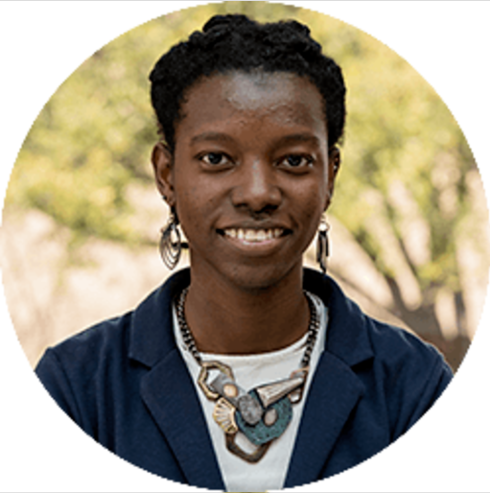
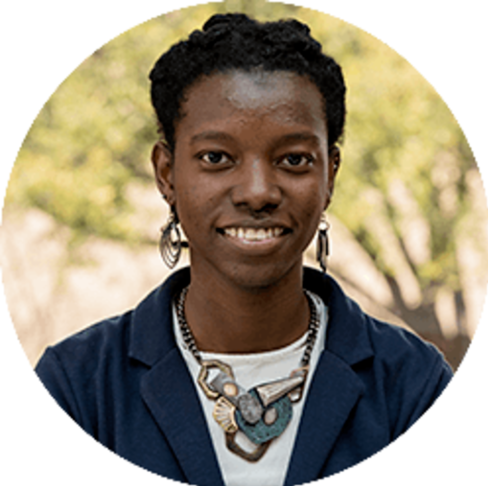
Created profile pictures and stylized a bit

diff --git a/about.html b/about.html
@@ -57,13 +57,15 @@
         <div class="proDiv">
           <img class="proPic" src="img/Team/Destiny-Tibbitts.PNG" alt="Destiny">
           <h2>Destiny Tibbits</h2>
+          <h3>Web Back-End</h3>
           <hr>
           <img src="img/GitHub-Mark-Light-64px.png" alt="github icon">
         </div>
 
         <div class="proDiv">
-          <img class=proPic src="img/Team/Destiny-Tibbitts.PNG" alt="Destiny">
-          <h2>Destiny Tibbits</h2>
+          <img class=proPic src="img/Team/Elijah-McKay.PNG" alt="Destiny">
+          <h2>Elijah McKay</h2>
+          <h3>Web Front End</h3>
           <hr>
           <img src="img/GitHub-Mark-Light-64px.png" alt="github icon">
         </div>
@@ -75,36 +77,44 @@
       <div class="row">
         <div class="proDiv">
           <img class="proPic" src="img/Team/Destiny-Tibbitts.PNG" alt="Destiny">
-          <h2>Destiny Tibbits</h2>
+          <h2>Joseph Wagner</h2>
+          <h3>Data Science</h3>
           <hr>
           <img src="img/GitHub-Mark-Light-64px.png" alt="github icon">
         </div>
 
         <div class="proDiv">
-          <img class=proPic src="img/Team/Destiny-Tibbitts.PNG" alt="Destiny">
-          <h2>Destiny Tibbits</h2>
-          <hr>
-          <img src="img/GitHub-Mark-Light-64px.png" alt="github icon">
-        </div>
+            <img class=proPic src="img/Team/Kevona-Webb.PNG" alt="Destiny">
+            <h2>Kevona Webb</h2>
+            <h3>Data Science</h3>
+            <hr>
+            <img src="img/GitHub-Mark-Light-64px.png" alt="github icon">
+          </div>
+
+
 
       </div>
       <!--End Row 2-->
 
-
       <div class="row">
+
+          <div class="proDiv">
+              <img class=proPic src="img/Team/Ned-Horsey.PNG" alt="Destiny">
+              <h2>Ned Horsey</h2>
+              <h3>Data Science</h3>
+              <hr>
+              <img src="img/GitHub-Mark-Light-64px.png" alt="github icon">
+            </div>
+    
+
         <div class="proDiv">
-          <img class="proPic" src="img/Team/Destiny-Tibbitts.PNG" alt="Destiny">
-          <h2>Destiny Tibbits</h2>
+          <img class="proPic" src="img/Team/Obaida-Albaroudi.PNG" alt="Destiny">
+          <h2>Obaida Albaroudi</h2>
+          <h3>Web Front-End</h3>
           <hr>
           <img src="img/GitHub-Mark-Light-64px.png" alt="github icon">
         </div>
 
-        <div class="proDiv">
-          <img class=proPic src="img/Team/Destiny-Tibbitts.PNG" alt="Destiny">
-          <h2>Destiny Tibbits</h2>
-          <hr>
-          <img src="img/GitHub-Mark-Light-64px.png" alt="github icon">
-        </div>
 
       </div>
       <!--End Row 3-->
@@ -112,15 +122,17 @@
 
       <div class="row">
         <div class="proDiv">
-          <img class="proPic" src="img/Team/Destiny-Tibbitts.PNG" alt="Destiny">
-          <h2>Destiny Tibbits</h2>
+          <img class="proPic" src="img/Team/Tyler-Gilchrist.PNG" alt="Destiny">
+          <h2>Tyler Gilchrist</h2>
+          <h3>Web UI</h3>
           <hr>
           <img src="img/GitHub-Mark-Light-64px.png" alt="github icon">
         </div>
 
         <div class="proDiv">
-          <img class=proPic src="img/Team/Destiny-Tibbitts.PNG" alt="Destiny">
-          <h2>Destiny Tibbits</h2>
+          <img class=proPic src="img/Team/Vanesa-Flores.PNG" alt="Destiny">
+          <h2>Vanesa Flores</h2>
+          <h3>Web Front-End</h3>
           <hr>
           <img src="img/GitHub-Mark-Light-64px.png" alt="github icon">
         </div>

diff --git a/less/about-page.less b/less/about-page.less
@@ -12,6 +12,7 @@
        width: 100%;
        justify-content: space-between;
        flex-flow: row;
+       padding-bottom: 6rem;
    }
 
     .proDiv{
@@ -23,8 +24,11 @@
 
         .proPic{
             width: 100%;
+            height: 42rem;
             border-radius: 50%;
-            padding-bottom: 2rem;
+            border: 3px solid @nav-bg;
+            box-shadow: 0 0 13px @main-font-color;
+            margin-bottom: 3rem;
         }
 
         

diff --git a/css/index.css b/css/index.css
@@ -485,6 +485,7 @@ header img {
   width: 100%;
   justify-content: space-between;
   flex-flow: row;
+  padding-bottom: 6rem;
 }
 .member-bios .proDiv {
   justify-content: center;
@@ -495,6 +496,9 @@ header img {
 }
 .member-bios .proDiv .proPic {
   width: 100%;
+  height: 42rem;
   border-radius: 50%;
-  padding-bottom: 2rem;
+  border: 3px solid #424242;
+  box-shadow: 0 0 13px #cecece;
+  margin-bottom: 3rem;
 }
